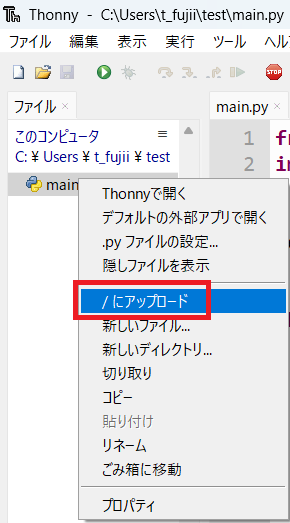
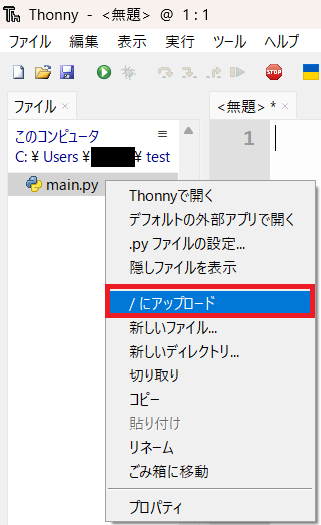
4398_mod_微修正]

diff --git a/board/shrike_lite/Shrike_lite編.md b/board/shrike_lite/Shrike_lite編.md
@@ -90,6 +90,12 @@ Thonny を使用して、 Shrike-Lite で実行するPythonプログラムを作
 本節では、PC 上で作成した Python ファイルを Shrike-lite のボード上に保存する手順について記載する。  
 1. Shrike-liteをPCに接続する。  
 1. Thonnyを起動する。 
+1. 上部のタブから表示を押下する。  
+![表示押下画面](../imgaes/S1_ThonnyDisplay.png)  
+1. 開かれた項目からファイルを押下する  
+![ファイル押下画面](../imgaes/S1_ThonnyFile.png)  
+    >確認：左記にファイル項目が表示されれば成功
+    ![ファイル設定確認画面](../imgaes/S1_ThonnyFileSetting.png)  
 1. 接続先のポートが　Shrike-lite　に対応するCOMポートになっていることを確認する。  
    接続方法は[2.1 使用するツールと接続方法](#21-使用するツールと接続方法)を参照  
 1. [3.1 新規プロジェクトの作成](#31-新規プロジェクトの作成)で作成したファイルを左のタブから右クリックする。  
@@ -97,6 +103,7 @@ Thonny を使用して、 Shrike-Lite で実行するPythonプログラムを作
 1. 「/にアップロード」を押下する。  
 ![ファイルアップロード押下画面](../imgaes/S1_FileUpload.png)  
 >確認：左下部の Raspberry Pi Pico にアップロードしたファイル名があれば成功  
+>注意：ファイルをアップロードする際は必ずマイコン上のプログラムが止まっていることを確認すること
 アップロード前  
 ![アップロード前画面](../imgaes/S1_FileUploadBefore.png)  
 アップロード後  
